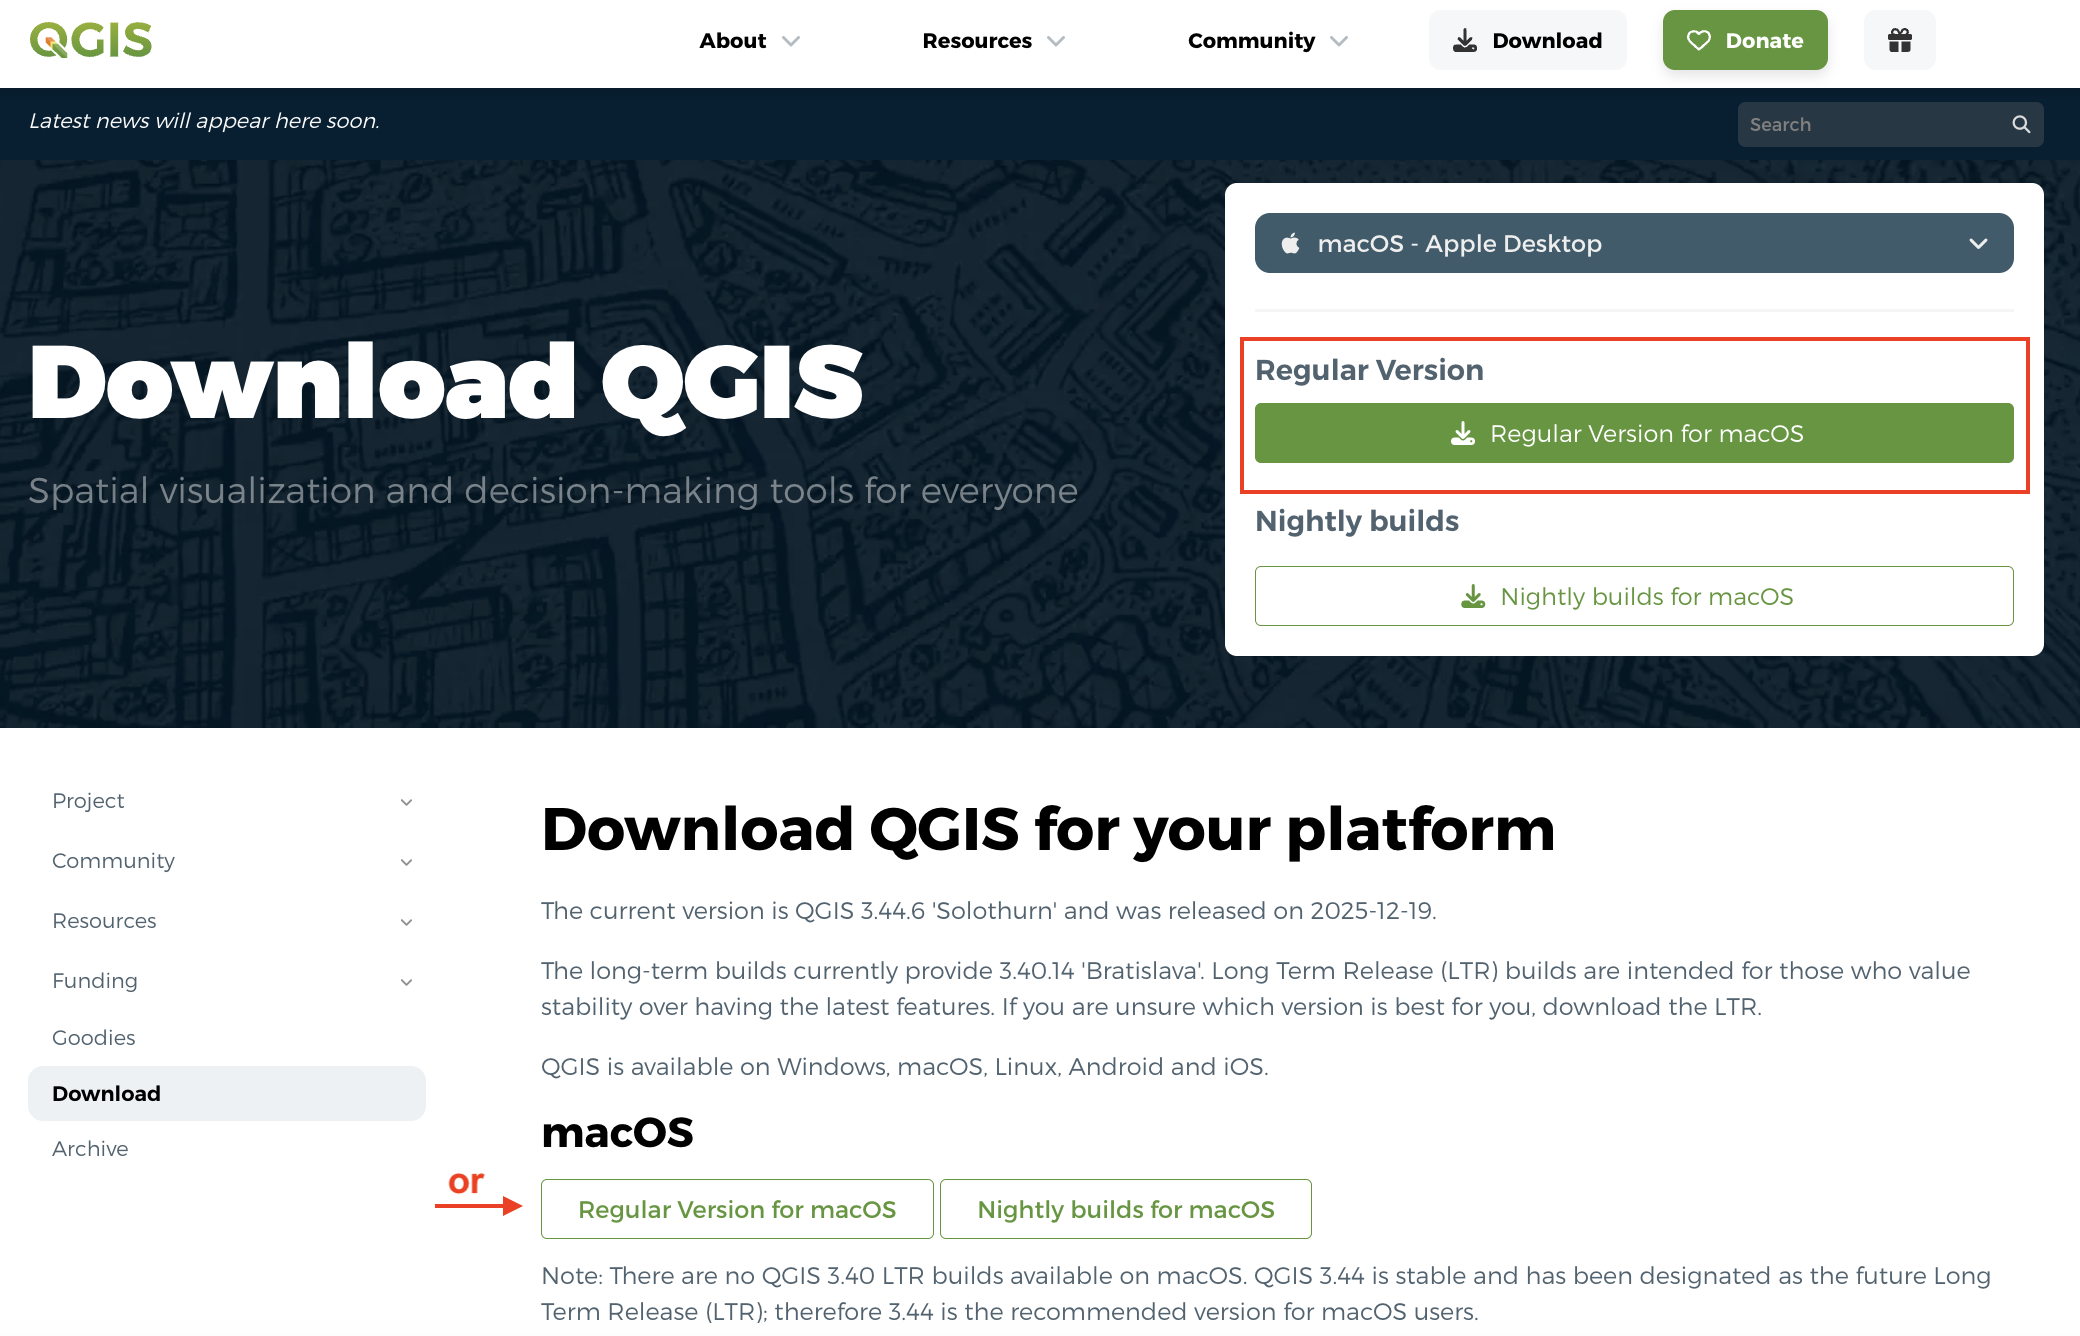
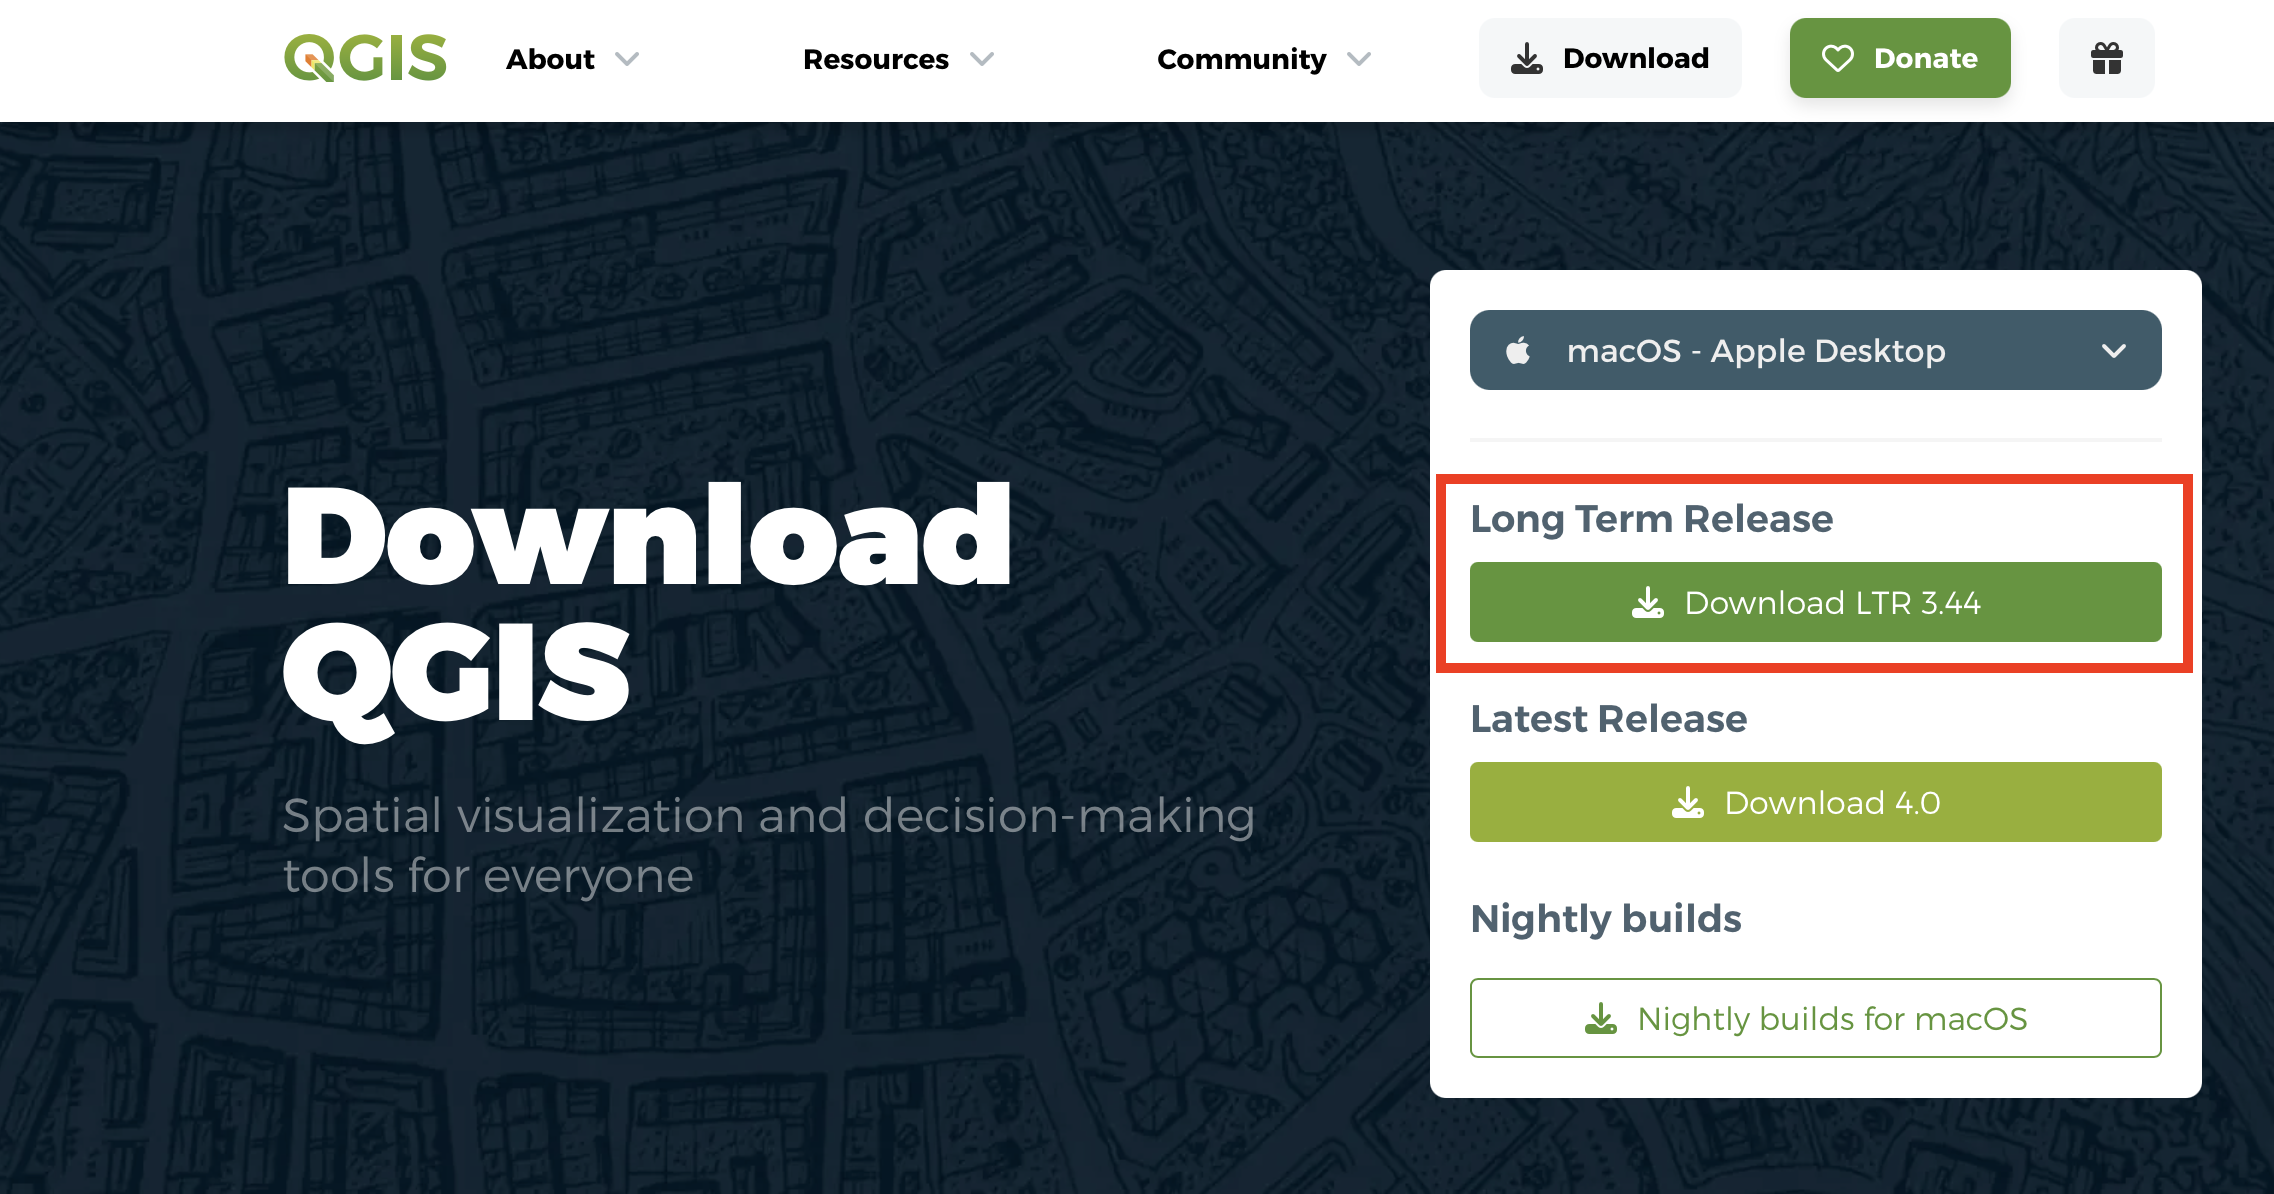
updated instructions

diff --git a/software-download.md b/software-download.md
@@ -36,17 +36,23 @@ Install QGIS for your operating system. From [qgis.org's Downloads page](https:/
 
 <br>
 
-### For Mac, choose the "Regular Version for macOS"
+### For Mac, choose the "Long Term Release" (if available)
+The long term release is less buggy and won't crash (as often). If no long term version exists, download the "regular verion". Avoid nightly builds as they can be more buggy. 
+
 {: .no_toc} 
 
 <img src="./content/images/download-qgis-mac.png" style="width:100%">
 
   
-### For Windows, scroll down and choose the Long Term Release
+### For Windows, choose the Long Term Release
 {: .no_toc}
+
 <img src="./content/images/download-qgis-windows1.png" style="width:100%">
+<img src="./content/images/download-qgis-windows3.png" style="width:100%">
+
+<!-- <img src="./content/images/download-qgis-windows1.png" style="width:100%">
 <img src="./content/images/download-qgis-windows2.png" style="width:100%">
-    
+     -->
 Later on in this workshop, you will be given a tour of the interface, as well as guided through adding data to a project and saving your project. For now, just make sure you have properly downloaded QGIS and are able to launch it. See below for troubleshooting tips if you're working on a Mac computer. 
 
 <br>
